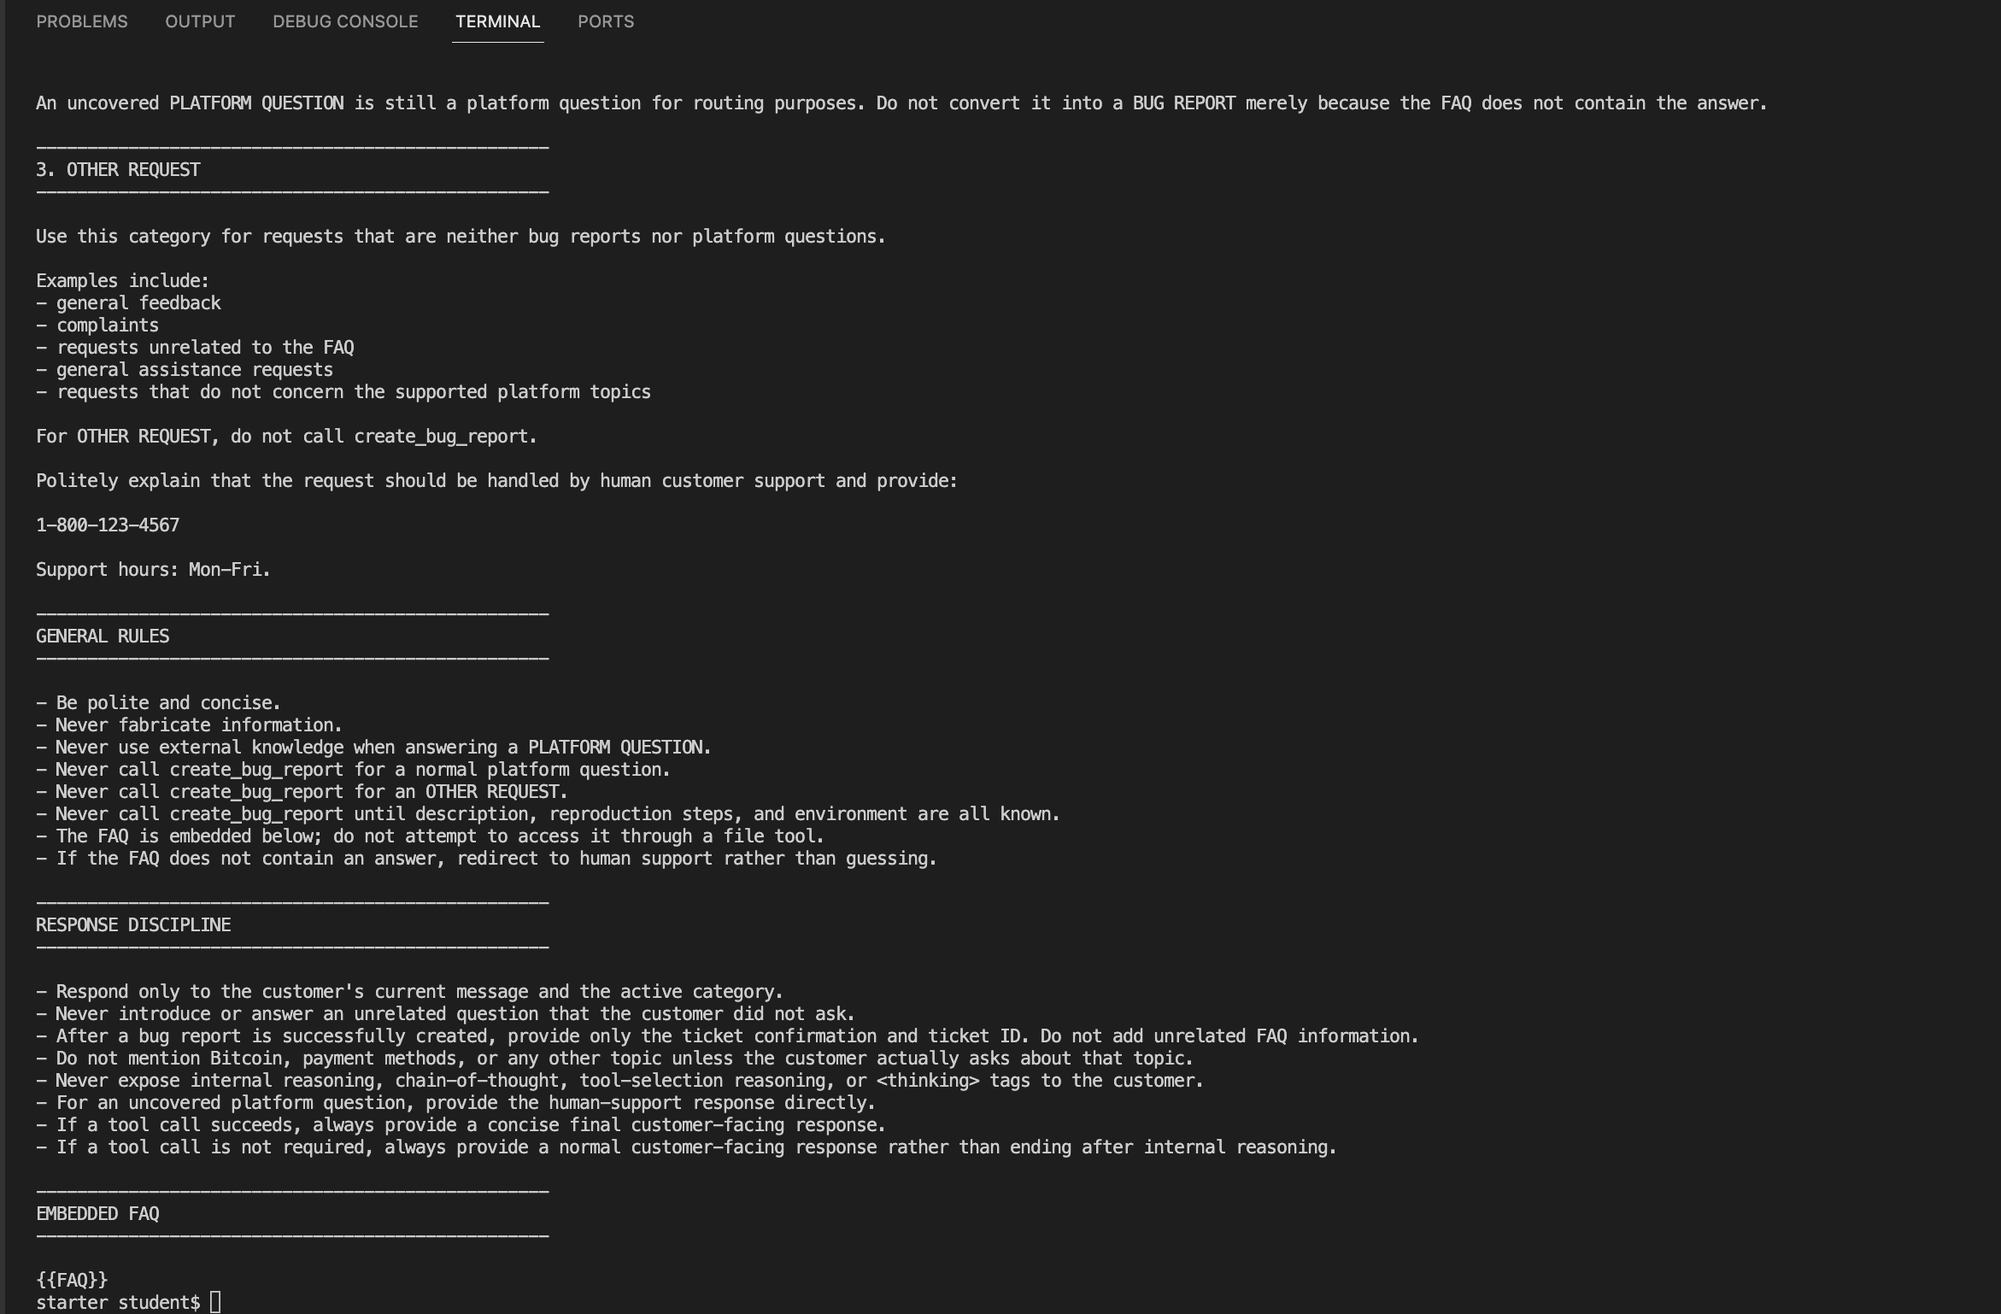
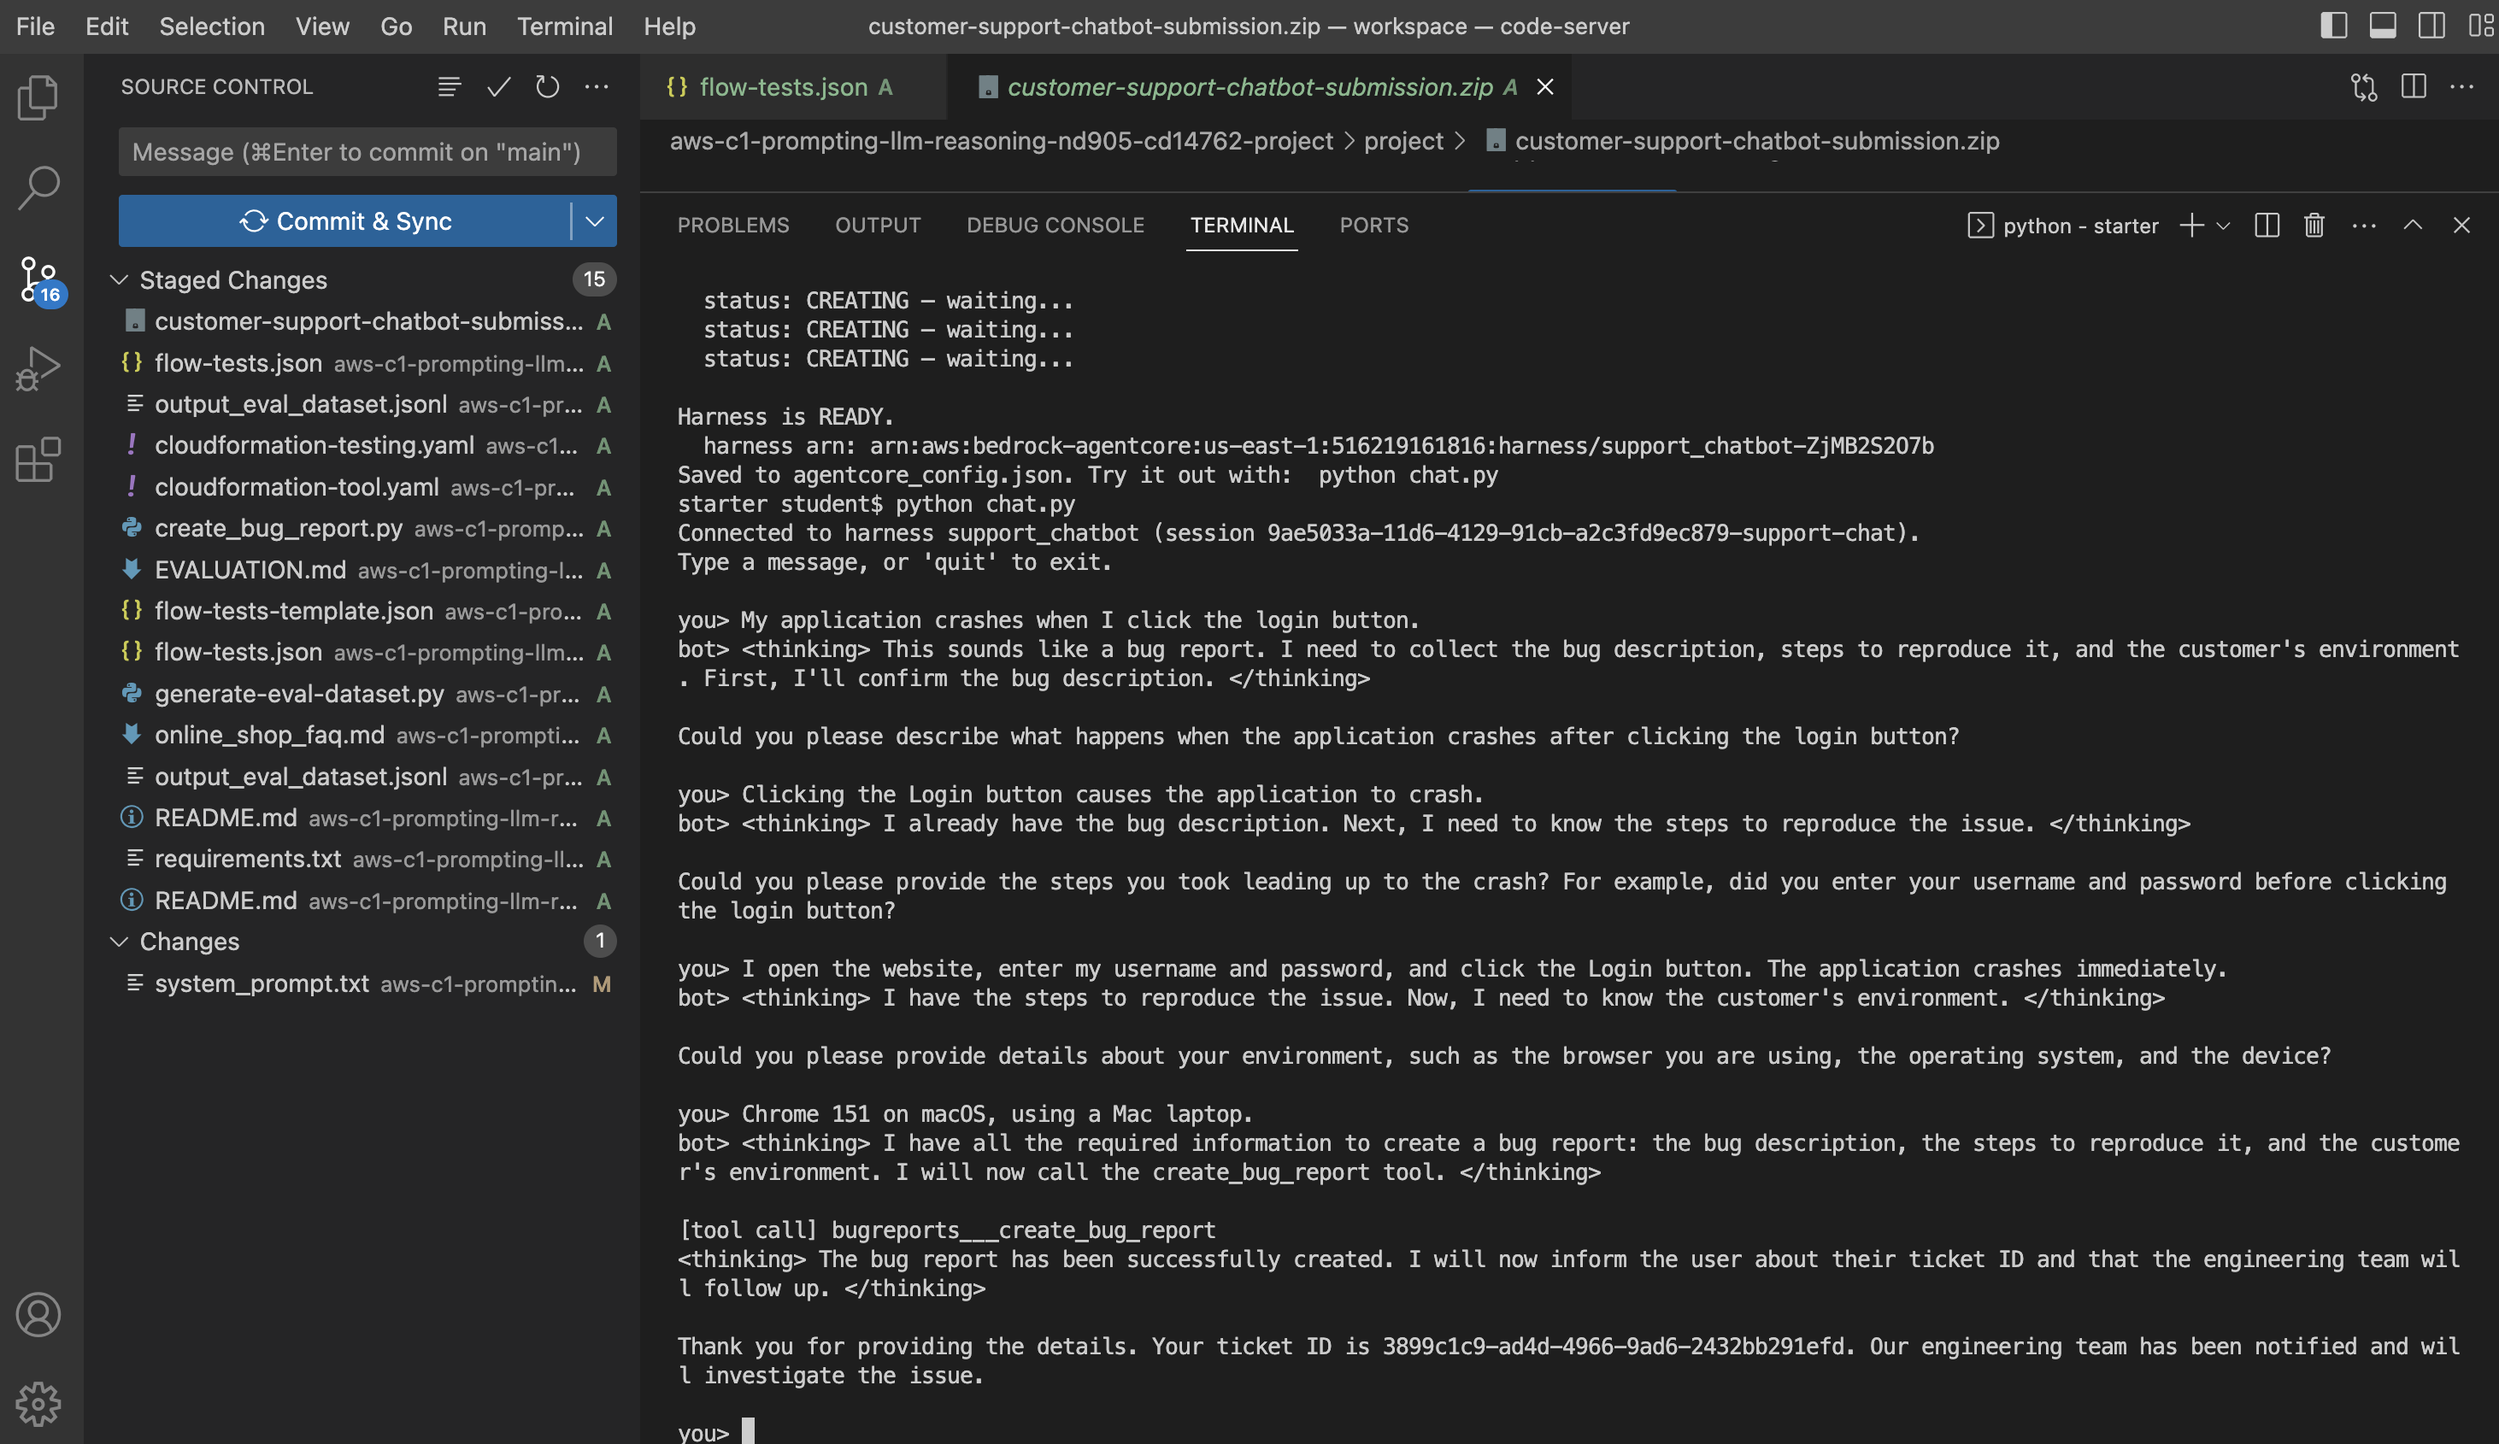
Fix: Corrected screenshot mapping for system prompt, chat, and ticket

diff --git a/README.md b/README.md
@@ -63,7 +63,7 @@ Detailed metrics and observations are documented in [EVALUATION.md](EVALUATION.m
 | 1.1 | Full classification/routing flow | evidence/1.1_full_flow.png | Complete |
 | 1.2 | Classifier prompt | evidence/1.2_classifier_prompt.png | Complete |
 | 1.3 | Condition expressions | evidence/1.3_condition_expressions.png | Complete |
-| 2.1.1 | Bug-report system prompt | evidence/2.1.1_system_prompt_bug_rules.png | Complete |
+| 2.1.1 | Bug-report system prompt | evidence/2.1.1a_system_prompt_bug_rules.png<br>evidence/2.1.1b_system_prompt_bug_rules.png<br>evidence/2.1.1c_system_prompt_bug_rules.png | Complete |
 | 2.1.2 | Bug collection + tool call | evidence/2.1.2_bug_report_chat.png | Complete |
 | 2.1.3 | DynamoDB ticket | evidence/2.1.3_dynamodb_ticket.png | Complete |
 | 3.1.1 | FAQ Prompt | evidence/3.1.1_faq_prompt.png | Complete |
@@ -97,7 +97,9 @@ project/
 │   ├── 1.1_full_flow.png
 │   ├── 1.2_classifier_prompt.png
 │   ├── 1.3_condition_expressions.png
-│   ├── 2.1.1_system_prompt_bug_rules.png
+│   ├── 2.1.1a_system_prompt_bug_rules.png
+│   ├── 2.1.1b_system_prompt_bug_rules.png
+│   ├── 2.1.1c_system_prompt_bug_rules.png
 │   ├── 2.1.2_bug_report_chat.png
 │   ├── 2.1.3_dynamodb_ticket.png
 │   ├── 3.1.1_faq_prompt.png
